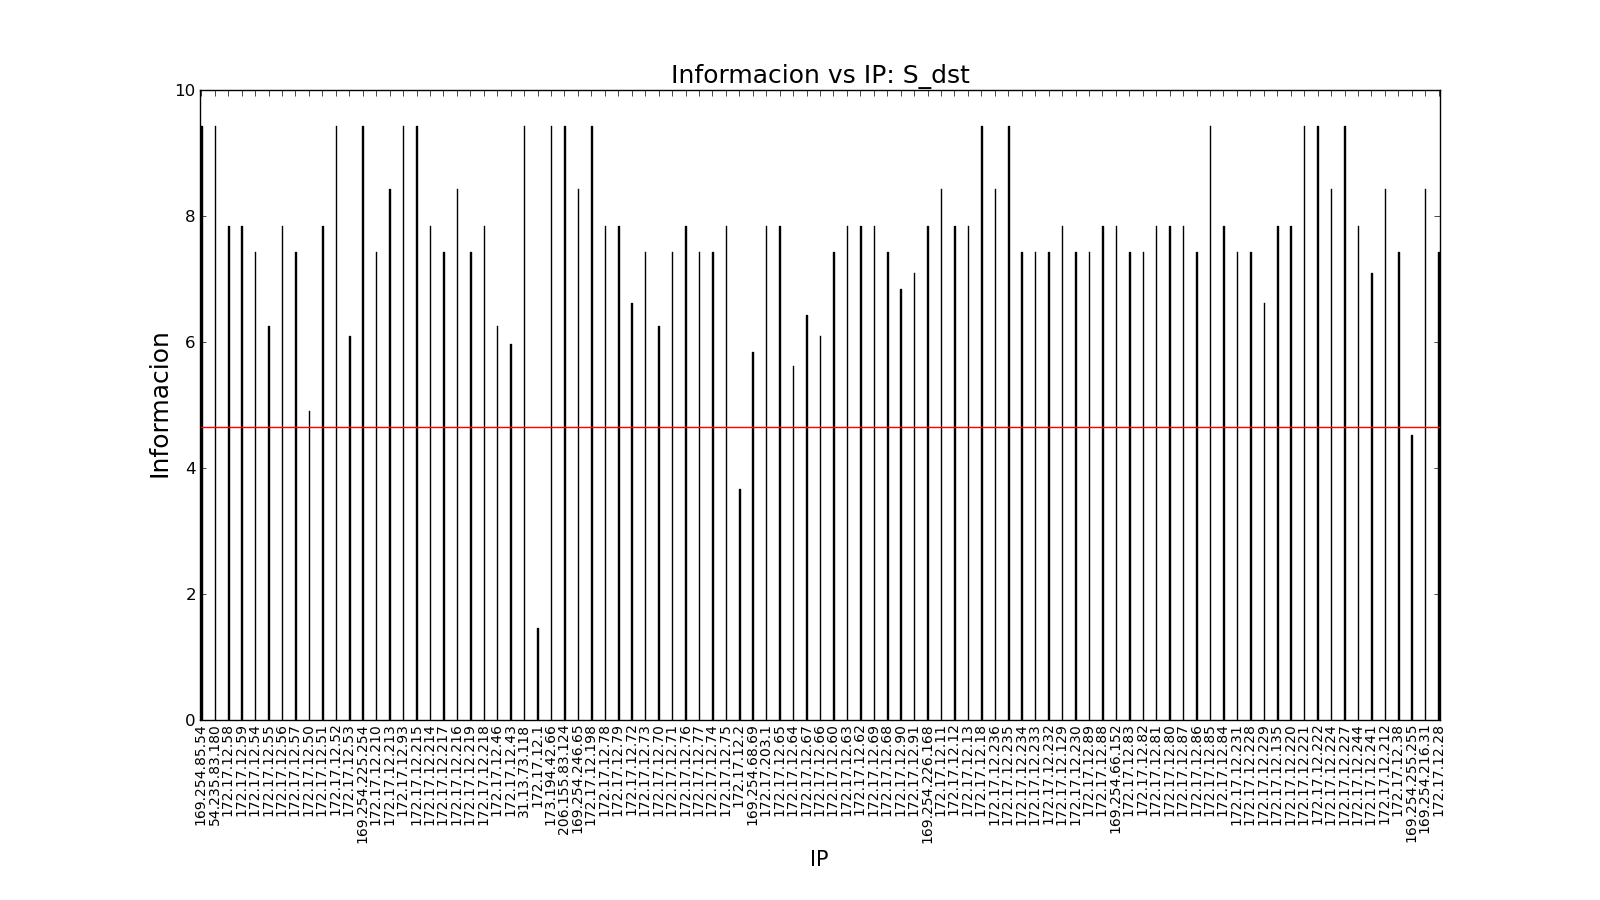
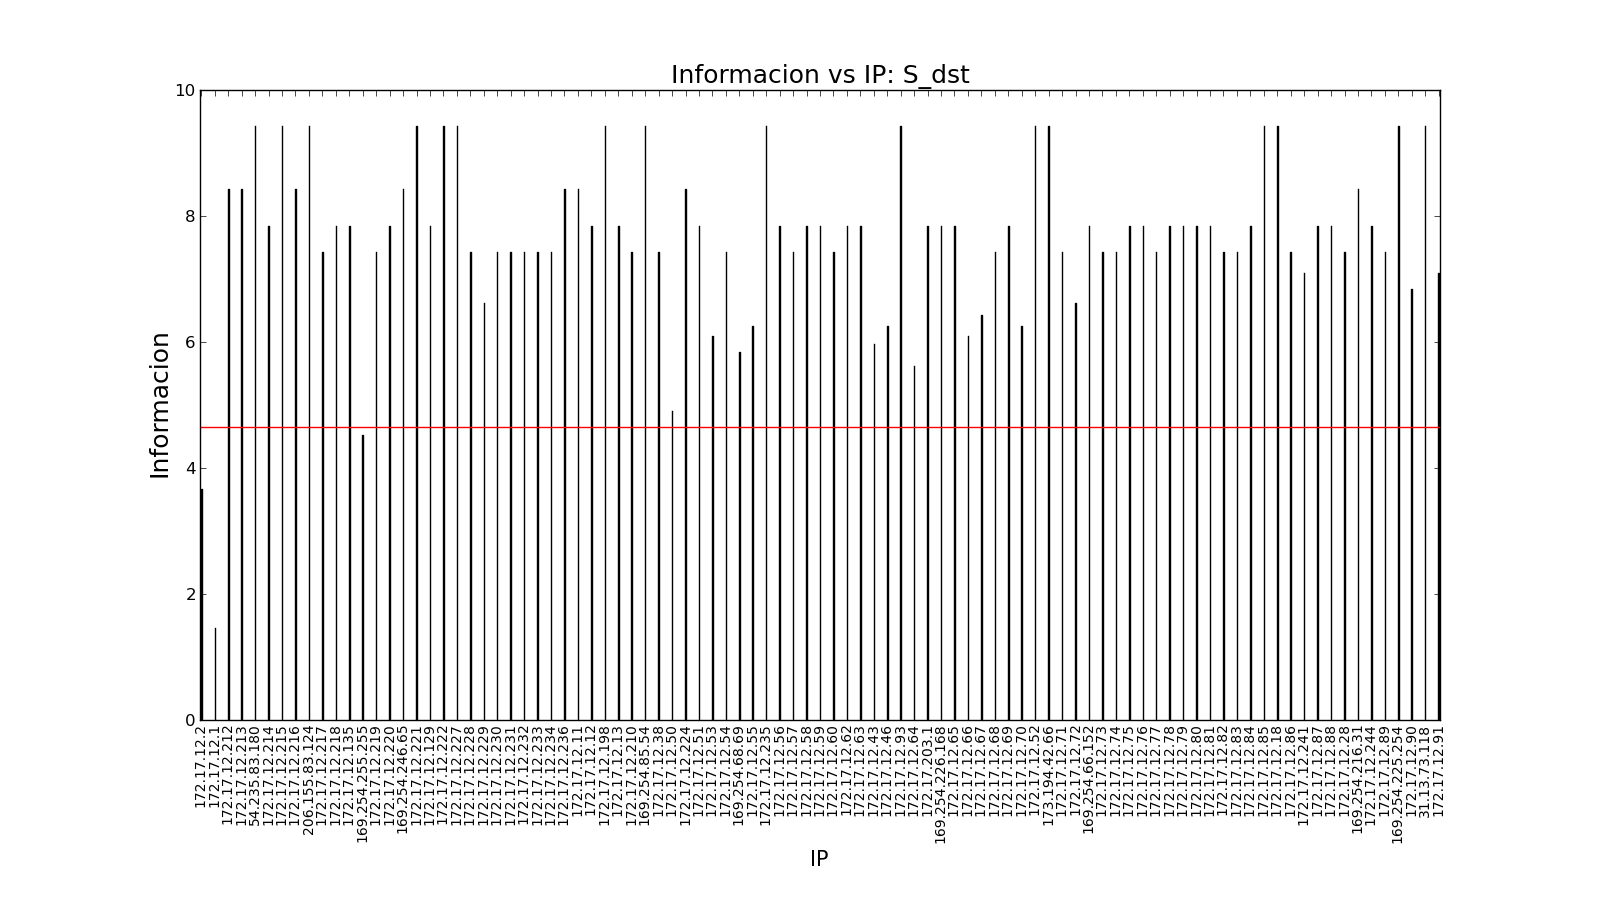
graficos ordenados por ip

diff --git a/informe/red-entrepiso-dc.tex b/informe/red-entrepiso-dc.tex
@@ -1,8 +1,8 @@
 \subsubsection{Descripción y grafo de relación entre los nodos}
 
-Realizamos una captura en la red Wi-Fi \emph{Entrepiso-DC}, disponible desde los laboratorios del Depto. de Computación. La muestra fue tomada un lunes a las 17hs aproximadamente -horario típicamente de alto tráfico-, logrando un total de XX paquetes en MM minutos.
+Realizamos una captura en la red Wi-Fi \emph{Entrepiso-DC}, disponible desde los laboratorios del Depto. de Computación. La muestra fue tomada un lunes a las 17hs aproximadamente -horario típicamente de alto tráfico-, logrando un total de 450 paquetes en 11 minutos.
 
-En el gráfico de la figura \ref{fig:entrepiso-dc-grafo} se presenta el grafo dirigido representando la red. En el mismo se observa una gran cantidad de nodos ligada al nodo con IP 10.1.200.197, y luego múltiples conjuntos pequeños de nodos conectados entre sí pero disconexos de la estructura mayoritaria.
+En el gráfico de la figura \ref{fig:entrepiso-dc-grafo} se presenta el grafo dirigido representando la red. En el mismo se observa una gran cantidad de nodos ligada al nodo con IP \emph{10.1.200.197}, y luego múltiples conjuntos pequeños de nodos conectados entre sí pero disconexos de la estructura mayoritaria. Es decir, a diferencia de las demás redes observadas, esta presentó una gran cantidad de pequeños clusters independientes.
 
 \begin{figure}[H]
   \begin{center}
@@ -25,6 +25,8 @@ En el gráfico de la figura \ref{fig:entrepiso-dc-grafo} se presenta el grafo di
 \end{figure}
 
 $\bullet$ Entropía de la fuente: 6.95922916897
+
+En las figuras \ref{fig:entrepiso-dc-dst-hist} y \ref{fig:entrepiso-dc-dst-info} se presentan los gráficos tipo histograma e información para la fuente $S_{dst}$. En este caso, hay múltiples nodos con una frecuencia mucho mayor que la media, siendo distinguidos alrededor de 10 nodos según el criterio de la sección \ref{subsec:modelos-fuente-informacion}; en particular, aquel de menor información \emph{10.1.200.197}.
 
 \subsubsection{Fuente: $S_{src}$}
 

diff --git a/arp_analysis_tool.py b/arp_analysis_tool.py
@@ -3,6 +3,7 @@
 import sys;
 import time;
 import math;
+import collections;
 import os;
 import re;
 import argparse;
@@ -50,14 +51,14 @@ def compute_source_indicators(source):
   
 def print_indicators(source, hist, info, entropy, basename):
   print '{basename}: {source}'.format(basename=basename, source=source)
-  # print "  - hist: ", hist
-  # print "  - info: ", info
+  print "  - hist: ", hist
+  print "  - info: ", info
   print "  - entropy: ", entropy
+  print "  - max possible entropy: ", math.log(len(hist.keys()), 2)
+  print "  - ratio: ", (entropy / math.log(len(hist.keys()), 2))
   print ""
 
 def plot_histogram(source, hist, basename):
-  # if len(hist) > 10:
-  #   hist = { k:v for (k,v) in hist.iteritems() if 2 < v }
   x, y = [20 * i for i in range(len(hist))], hist.values()
   labels = hist.keys()
   f = plt.figure('hist_{source}'.format(source=source), [16, 9])
@@ -70,9 +71,9 @@ def plot_histogram(source, hist, basename):
   plt.ylabel("Cantidad de paquetes", fontsize=18)
   f.savefig('imgs/{basename}_{source}_hist.png'.format(basename=basename, source=source))
 
-def plot_info(source, hist, entropy, basename):
-  x, y = [20 * i for i in range(len(hist))], hist.values()
-  labels = hist.keys()
+def plot_info(source, info, entropy, basename):
+  x, y = [20 * i for i in range(len(info))], info.values()
+  labels = info.keys()
   f = plt.figure('info_{source}'.format(source=source), [16, 9])
   f.subplots_adjust(bottom=0.2)
   plt.xlim([-2, x[-1] + 2])
@@ -102,12 +103,12 @@ def plot_network(s_src, s_dst, basename):
   graph.write_png('imgs/{basename}_red.png'.format(basename=basename), prog='neato')
 
 def compute_histogram(ips):
-  hist = {}
+  hist = collections.OrderedDict()
   for ip in ips: hist[ip] = hist.get(ip, 0) + 1
   return hist
 
 def compute_information(hist, total):
-  info = {}
+  info = collections.OrderedDict()
   for ip in hist: info[ip] = math.log(total, 2) - math.log(hist[ip], 2)
   return info
 

diff --git a/informe/desarrollo.tex b/informe/desarrollo.tex
@@ -1,4 +1,5 @@
 \subsection{Modelos de fuente de información}
+\label{subsec:modelos-fuente-informacion}
 
 Para analizar las redes locales estudiadas, utilizamos dos modelos de fuente de información:
 \vspace*{-2mm}
